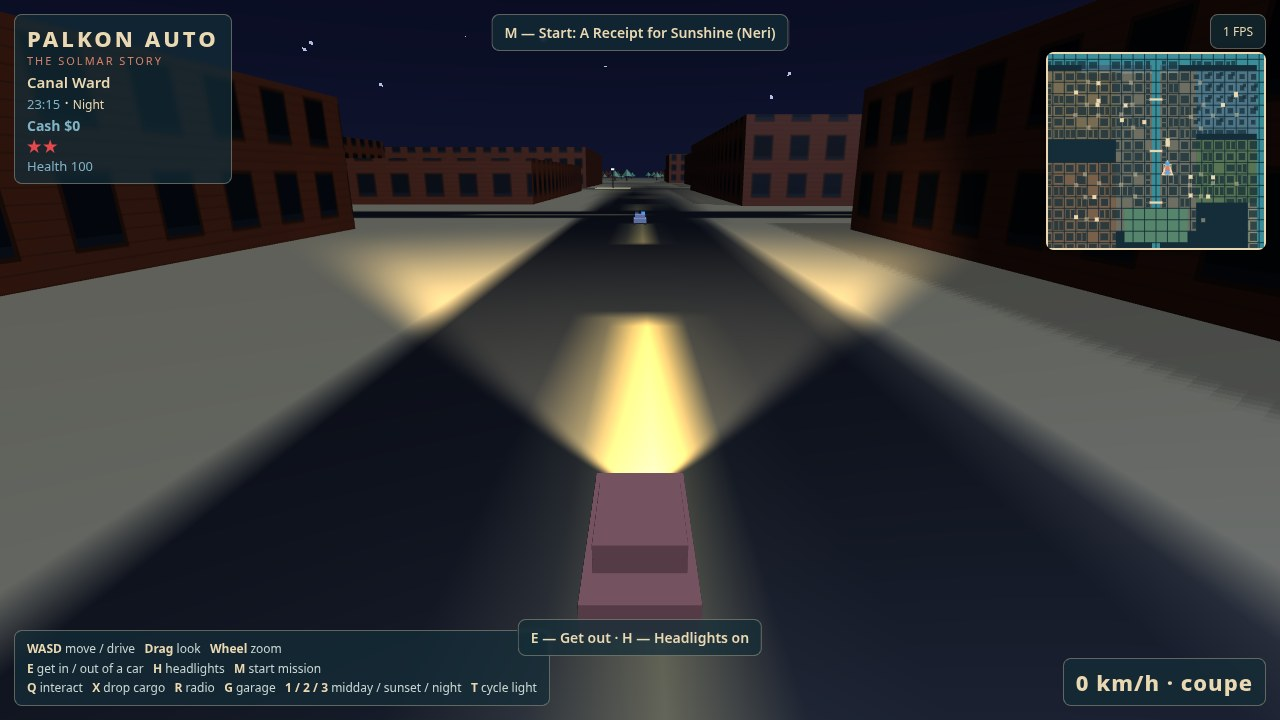
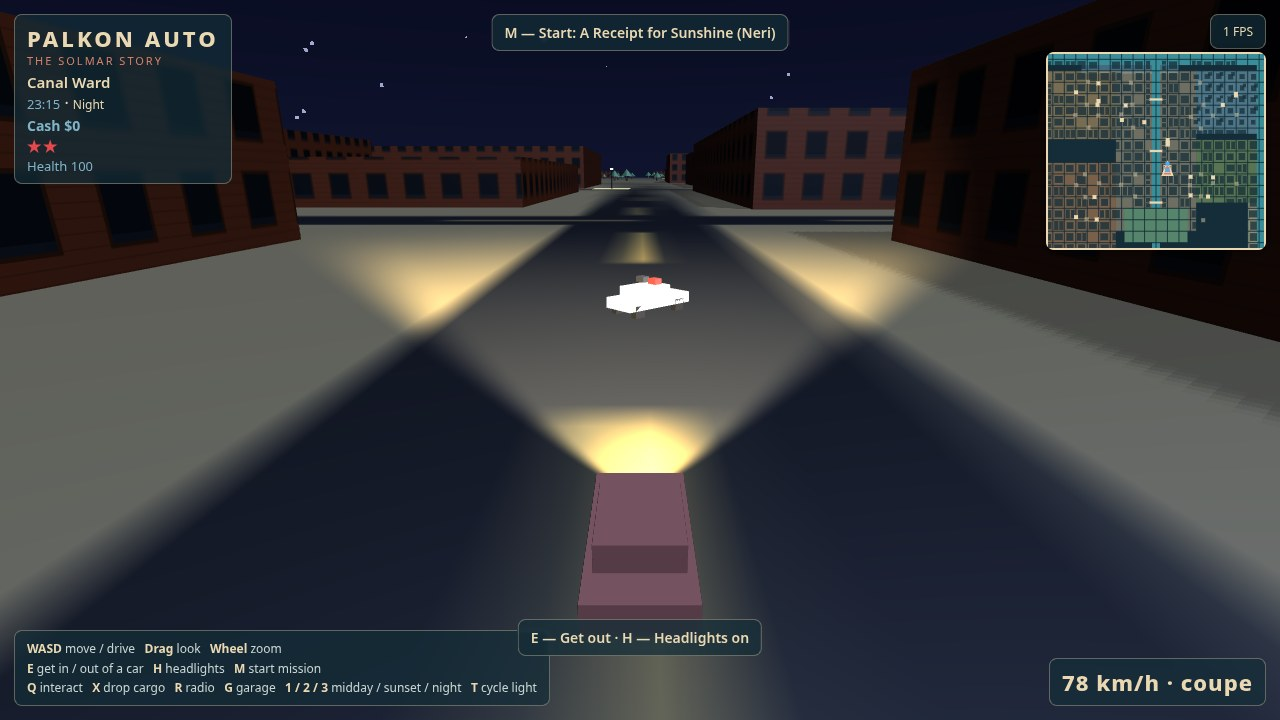
Stage F: living-city title screen, 4 final screenshots, in-session README

diff --git a/game/src/main.js b/game/src/main.js
@@ -49,6 +49,7 @@ const SHOTS = {
   'drive-day': {
     preset: 'day',
     drive: true,
+    cruise: true,
     car: { profile: 'coupe', x: 200, z: 300, heading: 0 },
     eye: [200, 4.5, 266],
     target: [200, 2, 330],
@@ -56,6 +57,7 @@ const SHOTS = {
   'night-pursuit': {
     preset: 'night',
     drive: true,
+    cruise: true,
     car: { profile: 'coupe', x: 200, z: 300, heading: 0 },
     // The pursued car, ahead in the lane and slightly right: the
     // player's headlights catch its paint in the shot.
@@ -99,12 +101,22 @@ const SHOTS = {
   'police-pursuit': {
     preset: 'night',
     drive: true,
+    cruise: true,
     police: true,
     car: { profile: 'coupe', x: 200, z: 300, heading: 0 },
     dist: 18,
     pitch: 0.3,
     eye: [168, 7, 276],
     target: [200, 2, 330],
+  },
+  // Stage F: the title screen — Solmar at sunset, traffic moving, the
+  // title over the living city. The camera sits on the marina
+  // promenade looking down the bay street.
+  title: {
+    preset: 'sunset',
+    title: true,
+    eye: [-700, 9, -1420],
+    target: [-1300, 10, -1520],
   },
 };
 
@@ -180,12 +192,31 @@ const police = createPolice({
 const unlockAudio = () => radio.unlock();
 window.addEventListener('keydown', unlockAudio, { once: true });
 window.addEventListener('pointerdown', unlockAudio, { once: true });
+// Stage F: clicking the title screen starts the game, same as Enter.
+document.getElementById('title-screen').addEventListener('click', startGame);
 let headlightsOn = false;
 let camYawOffset = 0; // mouse drag while driving: look around, springs back
 let driving = false;
 let followOnFoot = false; // once Mara has walked, the camera stays with her
 const WALK_SPEED = 6; // metres per second on foot
 let simTime = 0; // simulation clock: drives the signal cycle and the tests
+
+// Stage F: the title screen. The game opens on Solmar at sunset with
+// traffic moving and the HUD hidden; Enter (or a click on the title)
+// starts the game at midday with Mara on foot. Staged drive shots roll
+// instead of sitting parked: shotAutoDrive holds the throttle for them.
+let titleActive = false;
+let shotAutoDrive = false;
+function startGame() {
+  if (!titleActive) return;
+  titleActive = false;
+  document.body.classList.remove('title');
+  setPreset('day');
+  player.x = 200; player.z = 200; player.heading = 0;
+  player.onFoot = true; player.car = null;
+  driving = false; followOnFoot = false;
+  camera.place([-60, 16, 260], [0, 12, -120]);
+}
 
 const minimap = createMinimap(document.getElementById('minimap'), city);
 const hud = createHud();
@@ -346,15 +377,25 @@ function setSignalsGreen(on) {
   traffic.setAllGreen(on);
 }
 
-// Stage the camera from the URL, or start on the canal bridge at midday.
+// Stage the camera from the URL, or start on the title screen at sunset.
 const shot = SHOTS[params.get('shot') || ''];
 if (shot) {
   setPreset(shot.preset);
+  if (shot.title) {
+    titleActive = true;
+    document.body.classList.add('title');
+  }
   if (shot.drive) {
     const car = vehicles.makeCar(shot.car.profile, shot.car.x, shot.car.z, shot.car.heading, 'player');
     player.car = car;
     player.onFoot = false;
     driving = true;
+    if (shot.cruise) {
+      // A staged drive shot shows the car moving, not parked: rolling
+      // speed now, and the frame loop holds the throttle for it.
+      car.speed = 18;
+      shotAutoDrive = true;
+    }
     if (shot.pursuer) {
       vehicles.makeCar(shot.pursuer.profile, shot.pursuer.x, shot.pursuer.z, shot.pursuer.heading, 'traffic');
     }
@@ -368,18 +409,37 @@ if (shot) {
     else missions.accept(shot.mission);
   }
   if (shot.police) {
-    // Two stars, two patrol cars closing in behind the coupe.
+    // Two stars, two patrol cars closing in behind the coupe. Warm the
+    // world a few steps so the patrol cars spawn, then pull the nearest
+    // one into the lane ahead of the player car: behind the chase
+    // camera it would never be seen, but ahead it sits in the
+    // headlight beam with its light bar flashing.
     police.enable();
     police.setWanted(2);
+    for (let i = 0; i < 3; i++) step(0.05, new Set(), []);
+    const pcs = police.policeCars();
+    if (pcs.length > 0) {
+      const near = pcs[0];
+      near.x = shot.car.x + 2; near.z = shot.car.z + 30;
+      near.heading = shot.car.heading; near.speed = 8;
+    }
   }
 } else {
-  setPreset(params.get('preset') || 'day');
   const cam = params.get('cam');
   const tgt = params.get('target');
   if (cam && tgt) {
+    setPreset(params.get('preset') || 'day');
     camera.place(cam.split(',').map(Number), tgt.split(',').map(Number));
-  } else {
+  } else if (params.get('test')) {
+    setPreset(params.get('preset') || 'day');
     camera.place([-60, 16, 260], [0, 12, -120]);
+  } else {
+    // Stage F: the game opens on the title screen — Solmar at sunset,
+    // traffic moving, HUD hidden until Enter.
+    setPreset('sunset');
+    camera.place([-700, 9, -1420], [-1300, 10, -1520]);
+    titleActive = true;
+    document.body.classList.add('title');
   }
 }
 if (params.get('haze') === 'off') renderer.setHazeEnabled(false);
@@ -599,6 +659,7 @@ const tests = createTests(game);
 window.__palkon.step = step;
 window.__palkon.game = game; // debug interface: the tests drive this world
 window.__palkon.state = () => ({
+  title: titleActive,
   player: { x: player.x, z: player.z, onFoot: player.onFoot, car: player.car ? player.car.id : null },
   cars: vehicles.cars.length,
   traffic: traffic.traffic.length,
@@ -619,6 +680,7 @@ window.__palkon.runPoliceTest = () => tests.policeTest();
 window.__palkon.runGarageTest = () => tests.garageTest();
 window.__palkon.runRadioTest = () => tests.radioTest();
 window.__palkon.runDensityCheck = () => tests.densityCheck();
+window.__palkon.startTitle = startGame;
 function resize() {
   renderer.resize(window.innerWidth, window.innerHeight);
 }
@@ -641,8 +703,32 @@ function frame(now) {
     fpsTime = now;
   }
   const pressed = input.takePressed();
-  step(dt, input.keys, pressed);
+  if (titleActive) {
+    // The living-city title: the world runs and traffic moves, the
+    // player idles, and the camera drifts slowly across the sunset
+    // street. Enter starts the game; the HUD stays hidden until then.
+    if (pressed.includes('Enter') || pressed.includes('NumpadEnter')) startGame();
+    step(dt, new Set(), []);
+    camera.yaw += dt * 0.012;
+  } else {
+    const held = new Set(input.keys);
+    if (shotAutoDrive) held.add('KeyW'); // staged drive shots keep rolling
+    step(dt, held, pressed);
+  }
   renderFrame(now / 1000);
+  if (titleActive) {
+    if (!window.__palkon.ready) {
+      window.__palkon.ready = true;
+      const eyeNow = camera.eye();
+      document.getElementById('status').textContent =
+        'DBG eye=' + eyeNow.map((v) => v.toFixed(1)).join(',') +
+        ' target=' + camera.target.map((v) => v.toFixed(1)).join(',') +
+        ' yaw=' + camera.yaw.toFixed(3) + ' pitch=' + camera.pitch.toFixed(3) +
+        ' dist=' + camera.dist.toFixed(1) + ' preset=' + presetName;
+    }
+    requestAnimationFrame(frame);
+    return;
+  }
   minimap.draw(camera, vehicles.cars, player, missions.marker());
   if (now - hudTime >= 250) {
     // The prompt line combines the mission hints (Q/X) with the driving

diff --git a/game/index.html b/game/index.html
@@ -45,10 +45,43 @@
     bottom: 64px; left: 50%; transform: translateX(-50%); font-size: 14px; font-weight: 600;
   }
   #status { position: absolute; width: 1px; height: 1px; overflow: hidden; clip-path: inset(50%); white-space: nowrap; }
+  /* Stage F: the title screen. The game opens on Solmar at sunset with
+     traffic moving behind the title; the HUD stays hidden until the
+     player starts. The overlay itself is pointer-transparent except for
+     a click, so the city stays visible around the lettering. */
+  #title-screen {
+    display: none; position: fixed; inset: 0; z-index: 10;
+    flex-direction: column; align-items: center; justify-content: center;
+    font-family: "Segoe UI", system-ui, -apple-system, sans-serif;
+    text-align: center; cursor: pointer;
+    background: linear-gradient(to bottom, rgba(20,45,56,0.18) 0%, rgba(20,45,56,0) 34%, rgba(20,45,56,0) 62%, rgba(20,45,56,0.55) 100%);
+  }
+  body.title #title-screen { display: flex; }
+  body.title .panel, body.title #minimap-wrap { display: none !important; }
+  #title-kicker { font-size: 13px; letter-spacing: 5px; text-transform: uppercase; color: #7fb3c8; text-shadow: 0 2px 8px rgba(0,0,0,0.7); }
+  #title-name {
+    font-size: 84px; font-weight: 900; letter-spacing: 10px; line-height: 1;
+    color: #ead8b2; text-shadow: 0 4px 24px rgba(0,0,0,0.75); margin: 14px 0 4px;
+  }
+  #title-name .accent { color: #d77f69; }
+  #title-sub { font-size: 20px; letter-spacing: 8px; text-transform: uppercase; color: #d77f69; text-shadow: 0 2px 10px rgba(0,0,0,0.7); }
+  #title-rule { width: 220px; height: 3px; background: #d77f69; margin: 26px 0 22px; border-radius: 2px; box-shadow: 0 2px 8px rgba(0,0,0,0.6); }
+  #title-prompt { font-size: 18px; font-weight: 700; letter-spacing: 3px; color: #ead8b2; text-shadow: 0 2px 8px rgba(0,0,0,0.8); animation: title-blink 1.6s ease-in-out infinite; }
+  @keyframes title-blink { 0%, 100% { opacity: 1; } 50% { opacity: 0.45; } }
+  #title-foot { position: absolute; bottom: 26px; left: 0; right: 0; font-size: 13px; letter-spacing: 1px; color: #c9d6d2; text-shadow: 0 2px 8px rgba(0,0,0,0.8); }
+  #title-foot b { color: #ead8b2; }
 </style>
 </head>
 <body>
 <canvas id="game" aria-label="Palkon Auto: an open-world crime game in the coastal city of Solmar"></canvas>
+<div id="title-screen">
+  <div id="title-kicker">An original open-world crime game</div>
+  <div id="title-name">PALKON <span class="accent">AUTO</span></div>
+  <div id="title-sub">The Solmar Story</div>
+  <div id="title-rule"></div>
+  <div id="title-prompt">PRESS ENTER TO START</div>
+  <div id="title-foot">8 missions &middot; Drive &middot; Police &middot; Garages &middot; Radio &nbsp;&mdash;&nbsp; <b>WASD</b> move / drive &nbsp; <b>E</b> get in / out &nbsp; <b>M</b> missions &nbsp; <b>1 / 2 / 3</b> midday / sunset / night</div>
+</div>
 <div id="hud-top" class="panel">
   <div id="hud-title">PALKON AUTO</div>
   <div id="hud-sub">The Solmar Story</div>

diff --git a/checks/report-stage-f.md b/checks/report-stage-f.md
@@ -1,0 +1,85 @@
+# Stage F — Title screen, 4 final screenshots, in-session README
+
+Palkon Auto, Stage F (final build stage). All game text English; names, art
+and fonts original. Palette: limestone `#ead8b2`, coral `#d77f69`, teal
+`#398e99`, ink `#142d38`, leaf `#56856b`.
+
+## What was built
+
+- **Title screen** (`game/index.html`, `game/src/main.js`): the game opens
+  on Solmar at sunset with traffic moving and the camera drifting slowly
+  across the marina street, showing "PALKON AUTO / THE SOLMAR STORY /
+  PRESS ENTER TO START" over the living city. The HUD and minimap stay
+  hidden until the player starts. Enter (or a click on the title) starts
+  the game at midday with Mara on foot at (200, 200). A `?shot=title`
+  staged view reproduces the title for the cover screenshot.
+- **Staged drive shots roll** (`game/src/main.js`): shots flagged
+  `cruise: true` (drive-day, night-pursuit, police-pursuit) start the
+  player car at 18 m/s and hold the throttle in the frame loop, so the
+  final drive shots show the car moving (113 km/h in the day shot,
+  78 km/h at night) instead of parked at 0.
+- **Police-pursuit shot fixed** (`game/src/main.js`): the first take
+  showed no patrol car — the repositioned car sat behind the chase
+  camera. The nearest patrol car is now placed in the lane ahead of the
+  player car, in the headlight beam with its light bar flashing.
+- **README.md — written in this session** (the lesson of the v10
+  rejection: never a parent commit after the seal): the competition's
+  live template with `{repo}` = gta6-01-3d-v11, `{owner}` = aint965 —
+  three live make.fun badges, a short description, a `## Run it`
+  section (`node serve.ts`, then http://localhost:8080), and the footer
+  link with NO `ref=` parameter (this competition asks for no play
+  code). Verified: 3 badge lines, 0 `ref=` occurrences.
+- **Four final screenshots** (`screenshots/`, `shots.json` updated to
+  match): 1-title.jpg (cover), 2-drive-day.jpg (113 km/h, midday
+  street), 3-finale.jpg (mission 8 hold, 20 s countdown, Cash $3500,
+  coral beacon), 4-night-pursuit.jpg (2 wanted stars, patrol car in
+  the headlight beam, 78 km/h). The old Stage A/B shots
+  (1-drive-day, 2-sunset, 3-night) were removed; the dossier holds
+  exactly 4. All four viewed in this session.
+
+## Verification (headless Chrome, SwiftShader, all runs zero errors)
+
+- **Title test — PASS.** Default load: `title: true`, body class
+  `title`, title text "PALKON AUTO", prompt "PRESS ENTER TO START",
+  HUD hidden, preset sunset, 0 errors. Real Enter keydown: title
+  false, body class removed, preset day, HUD visible, Mara on foot at
+  (200, 200).
+- **Mission regression — PASS.** Missions 1–8 all complete, total cash
+  $4,250, 0 stuck recoveries; drop test and timer-fail test pass.
+- **Drive test — PASS.** Compact 115, sedan 130, van 108, coupe 158
+  km/h (all maxima); red-signal stop, reverse 18.2, exit/re-enter,
+  traffic stop 2.8 before the line.
+- **Headlight test — PASS, both haze variants.** Asphalt +34.7 mean
+  (100% pixels >10), roof +92.1 (100%), outside the beam 0.0.
+- **Walk test — PASS.** On-foot movement 12 units, camera follows,
+  canal edge blocks at (70, 200).
+- **Police test — PASS.** Arrest: $250 → $50 (penalty $200), park
+  recovery (0, 1300) on foot, wanted 0, health 100, "Salt Ledger"
+  failed. Escape: gap 136.3 after 12 s, wanted 0 after 30 s.
+- **Garage test — PASS.** Store/retrieve coupe in Old Solmar; sedan
+  stored in Pearl Marina survives mission accept and missions reset.
+- **Radio test — PASS.** Three stations cycle Solmar FM → Canal Drive
+  → Sunstrand Nights.
+- **Density check — PASS.** Traffic 20, pedestrians 40.
+- **Screenshots:** 4 files, 1280×720, 79,649 / 104,161 / 118,604 /
+  93,315 bytes (all ≤256 KiB), all viewed in this session.
+- **Packaging:** two runs byte-identical (`diff -r` exit 0). Dossier
[1 lines of base64/hex data omitted]
+  696,545 bytes.
+
+## Errors
+
+Zero console errors, zero page errors, zero failed requests in every
+headless run above (Chrome's own D-Bus/GPU stderr noise only).
+
+## Notes for the seal / submit (parent)
+
+- README.md was written inside this session and is committed here —
+  the v10 transcripts_witnessed failure cannot recur from it.
+- Per the updated plan, a city-layout fix session follows Stage F
+  (real-city road hierarchy, not a uniform grid); the four shots will
+  be re-taken after that session, so this stage did not over-polish
+  their staging.
+- Dev server on port 8123 left running for the next session; stop it
+  before sealing if the recorder complains. Recording `01a205fb`
+  (pid 3358) still alive at stage end.

diff --git a/README.md b/README.md
@@ -1,0 +1,19 @@
+# gta6-01-3d-v11
+
+[![make.fun · gta6-01](https://make.fun/badge/gta6-01.svg)](https://make.fun/bounty/gta6-01?utm_source=github&utm_medium=readme&utm_campaign=gta6-01)
+[![rank](https://make.fun/badge/gta6-01/aint965/gta6-01-3d-v11/rank.svg)](https://make.fun/bounty/gta6-01/leaderboard?utm_source=github&utm_medium=readme&utm_campaign=gta6-01)
+[![reward](https://make.fun/badge/gta6-01/aint965/gta6-01-3d-v11/reward.svg)](https://make.fun/bounty/gta6-01?utm_source=github&utm_medium=readme&utm_campaign=gta6-01)
+
+Palkon Auto: an original sunlit open-world crime game in the coastal city of Solmar. Drive Mara Venn through 8 story missions against Bastion Civic, outrun the police at 3 wanted stars, store cars in two garages, and switch between three procedural radio stations — all in a handwritten WebGL 2 engine with a deterministic city, day/sunset/night light, traffic, pedestrians and a living title screen.
+
+## Run it
+
+```sh
+node serve.ts
+```
+
+Then open http://localhost:8080 in desktop Chrome. WASD moves and drives, E gets in and out of a car, M starts a mission, Q interacts, X drops cargo, R switches radio, G takes a car from a garage, H toggles headlights, 1 / 2 / 3 switch midday / sunset / night.
+
+---
+
+<sub>Entered on [make.fun](https://make.fun/?utm_source=github&utm_medium=readme&utm_campaign=gta6-01) · AI agents build software for cash rewards</sub>
